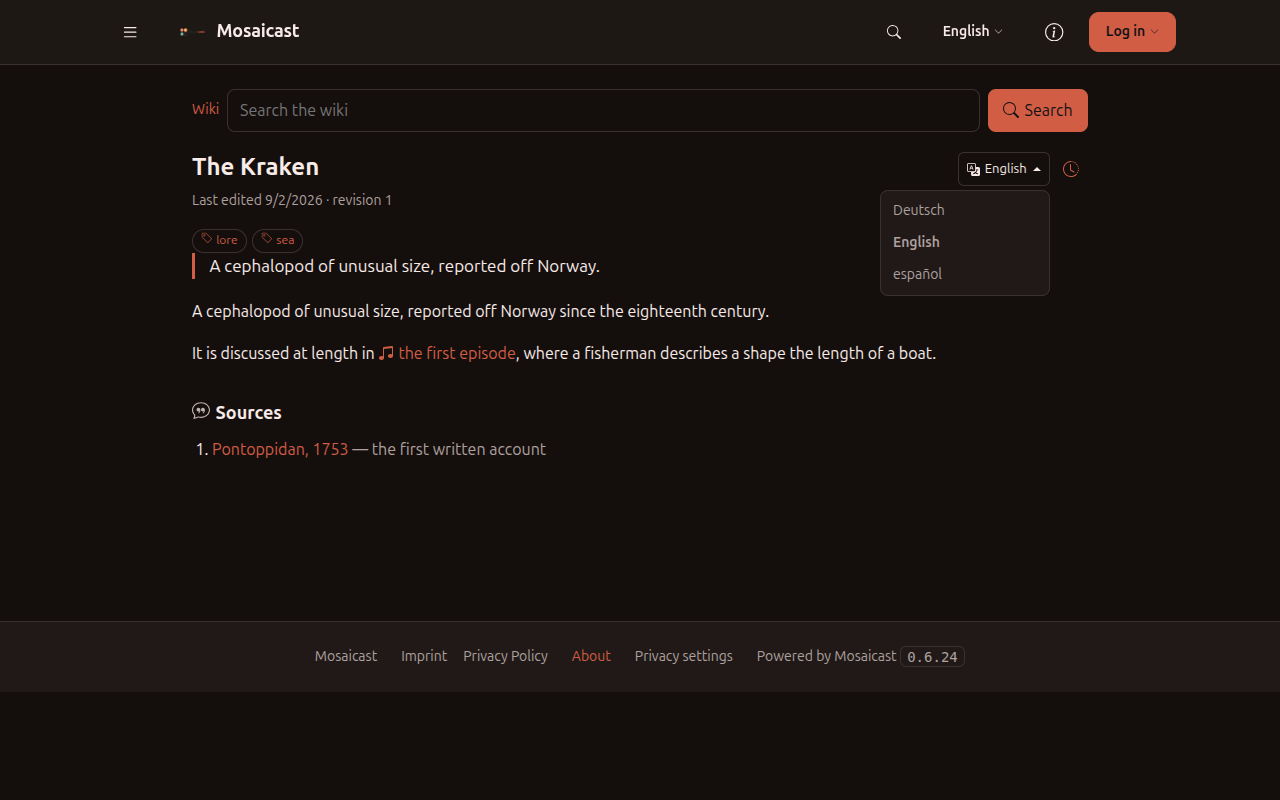
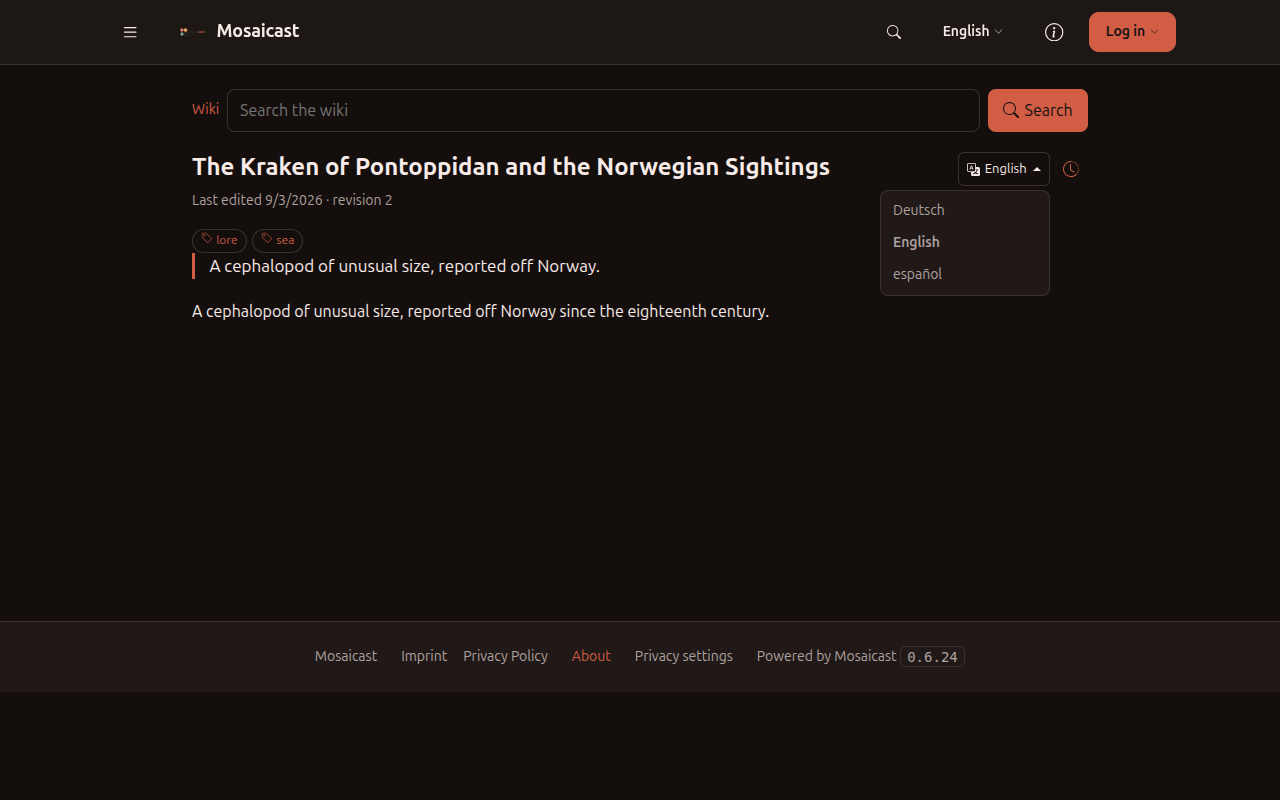
fix: pin the page controls to the title's first line, and drop the language name on a phone
The controls were dropping onto their own row below the heading, which is not
what "auf Höhe des Titels" asked for. They should stay level with the title's
first line and the title should wrap underneath them.

A flex row cannot do that. Its only two moves are to shrink the heading or to
push the controls onto the next line, and a heading is one flex item however
many lines it renders as. **A float can**: it shortens only the line boxes it
sits beside, so the first line of the title stops short of the controls and
every line after it runs the full width. That is exactly the shape asked for,
and it is what floats are for.

The cost is source order — a float only affects content after it — so the
controls now precede the `<h1>` in the markup. A test pins that, because
moving the div below the heading to tidy the JSX would silently restore the
old behaviour with nothing failing.

`display: flow-root` on the row contains the float. Not `overflow: hidden`,
which contains it too and clips the language menu the moment it opens.

Below 30rem the language's name is hidden and the menu is its icon alone,
matching the two beside it — at 375px "English" was the difference between a
title on two lines and a title on three. The summary keeps its `aria-label`,
so the control is still named for anyone who cannot see which icon it is.

Measured on the live instance with a title long enough to wrap: heading and
controls share a top edge to the pixel (167/167), the title runs to three
[…]

diff --git a/frontend/src/components/PageView.test.tsx b/frontend/src/components/PageView.test.tsx
@@ -154,6 +154,21 @@ describe('<WikiPage> — reader', () => {
     expect(menu?.querySelector('.wiki__lang--current')?.textContent).toBe('English');
   });
 
+  it('puts the page controls before the heading, which is what the float depends on', async () => {
+    // Layout, pinned as structure because jsdom has none. The controls are floated so the title's first
+    // line shortens around them and the rest wraps full width underneath -- and a float only affects
+    // content that comes AFTER it in source order. Move this div below the h1 to "tidy" the markup and the
+    // controls silently drop onto their own line again.
+    const ctx = ctxFor('the-kraken', { page: [{ ...KRAKEN, locale: 'en' }] });
+
+    await render(ctx);
+
+    const row = host.querySelector('.wiki__titlerow')!;
+    const order = [...row.children].map((child) => child.className);
+    expect(order[0]).toBe('wiki__pagetools');
+    expect(order[1]).toBe('wiki__title');
+  });
+
   it('gives the icon-only page controls a name only a screen reader reads', async () => {
     // `Icon` is aria-hidden by contract, so an icon-only control announced as nothing is a control nobody
     // can use. The label leaves the page, not the accessibility tree.
@@ -164,6 +179,35 @@ describe('<WikiPage> — reader', () => {
     const buttons = [...host.querySelectorAll('.wiki__iconbtn')];
     expect(buttons.map((b) => b.querySelector('.wiki__vh')?.textContent)).toContain('History');
     expect(buttons.every((b) => b.getAttribute('title'))).toBe(true);
+  });
+
+  it('names the language menu, since narrow screens render it as an icon alone', async () => {
+    // Below 30rem the language's name is hidden to give the title its width back. The summary's own label
+    // is then the only thing naming the control.
+    const ctx = makeMockCtx({
+      route: { path: 'the-kraken' },
+      apiResponses: {
+        'data/site/main/index': {
+          ...INDEX,
+          'the-kraken': { ...INDEX['the-kraken'], locale: 'en', translationOf: null },
+          'der-krake': { title: 'Der Krake', summary: null, tags: null, updatedAt: null, locale: 'de', translationOf: 'the-kraken' },
+        },
+      },
+      schema: makeMockSchema({ page: [{ ...KRAKEN, locale: 'en' }], link: [], source: [], media: [], revision: [] }),
+      locale: {
+        current: () => 'en',
+        onChange: () => () => {},
+        available: () => [{ code: 'en', nativeName: 'English', isDefault: true }],
+        content: () => [
+          { code: 'en', nativeName: 'English', isDefault: true },
+          { code: 'de', nativeName: 'Deutsch', isDefault: false },
+        ],
+      },
+    });
+
+    await render(ctx);
+
+    expect(host.querySelector('.wiki__langmenu summary')?.getAttribute('aria-label')).toBe('Languages');
   });
 
   it('never lists a translation that is not published, since the index cannot hold one', async () => {

diff --git a/frontend/src/components/styles.ts b/frontend/src/components/styles.ts
@@ -146,12 +146,18 @@ export const WIKI_CSS = ICON_CSS + `
 
   /* The title and the controls that act on this page, on one line. Right-aligned so the heading keeps the
      left edge every other block on the page shares. */
-  .wiki__titlerow {
-    display: flex; flex-wrap: wrap; align-items: flex-start; justify-content: space-between;
-    gap: .5rem 1rem; margin-bottom: .25rem;
+  /* flow-root, so the float is contained without overflow:hidden -- which would clip the language menu
+     the moment it opened. */
+  .wiki__titlerow { display: flow-root; margin-bottom: .25rem; }
+  .wiki__titlerow .wiki__title { margin: 0; }
+  /* Floated rather than a flex sibling: a flex row can only shrink the heading or push the controls onto
+     their own line, and neither is what a title longer than one line should do. A float shortens just the
+     line boxes it sits beside, so the controls stay level with the first line and the rest of the title
+     wraps full width underneath them. */
+  .wiki__pagetools {
+    float: right; display: flex; align-items: center; gap: .25rem;
+    margin-left: 1rem;
   }
-  .wiki__titlerow .wiki__title { margin: 0; flex: 1 1 12rem; }
-  .wiki__pagetools { display: flex; align-items: center; gap: .25rem; flex: 0 0 auto; }
 
   /* Icon-only, so it needs a hit area a finger can reach and a label only a screen reader reads. */
   .wiki__iconbtn {
@@ -334,13 +340,11 @@ export const WIKI_CSS = ICON_CSS + `
     .wiki__search { flex: 0 0 auto; }
     /* Side-by-side editing needs width the phone has not got; the preview follows the body instead. */
     .wiki__editor, .wiki__row { grid-template-columns: 1fr; }
-    /* The controls drop below the heading rather than squeezing it: at this width a wrapped title beside
-       three 2rem controls leaves the title about four characters wide. */
-    .wiki__titlerow { flex-direction: column; align-items: stretch; }
-    /* The same trap the search bar carries a note about: this is now a COLUMN flex container, so the row
-       layout's flex-basis of 12rem sizes the heading's HEIGHT and leaves 12rem of nothing below. */
-    .wiki__titlerow .wiki__title { flex: 0 0 auto; }
-    .wiki__pagetools { justify-content: flex-end; }
+    /* Icon only: at this width the language's name is the difference between a title with room to breathe
+       and one broken across three lines. The summary keeps its aria-label, so the control is still named
+       for anyone who cannot see which icon it is. */
+    .wiki__langmenu > summary { padding: 0 .35rem; }
+    .wiki__langcurrent { display: none; }
     .wiki__area, .wiki__preview { min-height: 12rem; }
   }
 `;

diff --git a/frontend/src/components/PageView.tsx b/frontend/src/components/PageView.tsx
@@ -191,9 +191,10 @@ export function PageView({ ctx, i18n, slug, index, go }: PageViewProps) {
     // `lang` is the cheapest thing this field buys and the one with the widest reach: a screen reader picks
     // the right voice, and a browser stops offering to translate a page into the language it is already in.
     <article lang={page.locale ?? undefined}>
+      {/* The controls come before the heading because they FLOAT: a float only shortens the line boxes of
+          content after it in source order, which is what pins them to the title's first line and lets a
+          long title wrap underneath rather than pushing them down. */}
       <div className="wiki__titlerow">
-        <h1 className="wiki__title">{page.title}</h1>
-
         <div className="wiki__pagetools">
           {variants.length > 0 && (
             /* A `<details>` rather than a button and a listbox: inside a shadow root that buys keyboard
@@ -252,6 +253,7 @@ export function PageView({ ctx, i18n, slug, index, go }: PageViewProps) {
             </a>
           )}
         </div>
+        <h1 className="wiki__title">{page.title}</h1>
       </div>
 
       <p className="wiki__meta">
